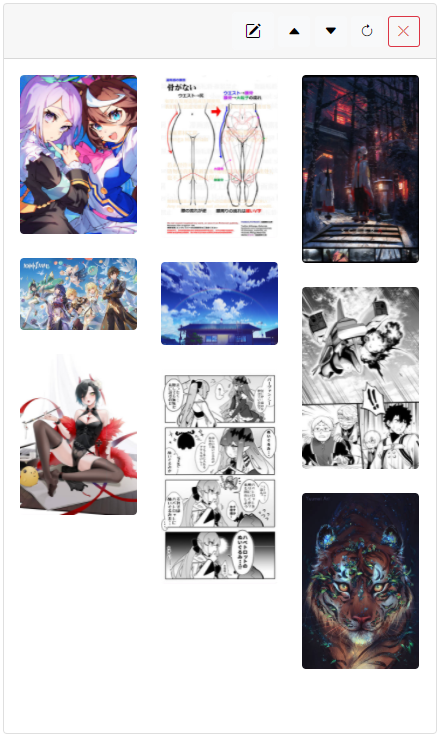
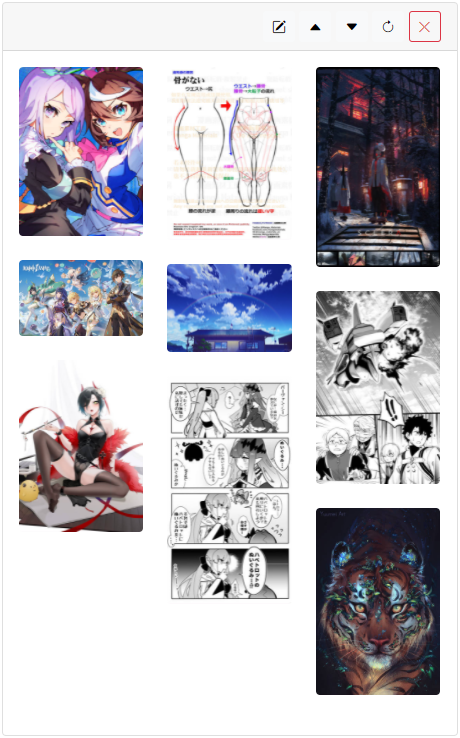
updated examples

diff --git a/js/popup.js b/js/popup.js
@@ -48,7 +48,7 @@ $(function() {
     var editBtn = ''
     if (window.location.toString().startsWith(chrome.runtime.getURL("html/main.html"))) {
       editBtn = `
-      <button id="${id}-edit" type="button" class="btn btn-light">
+      <button id="${id}-edit" type="button" class="btn btn-sm btn-light">
         <i class="bi bi-pencil-square"></i>
       </button>
       `

diff --git a/README.md b/README.md
@@ -106,9 +106,10 @@ We are using Bootstrap 5 css and icons. you can insert html with Bootstrap 5 css
 - Bootstrap icons: https://icons.getbootstrap.com/
 
 ### How to add an API Card
-1. Click the extension icon, and then click the _blue_ edit button on the popup.
-2. Input the API url and input your prefered HTML code for displaying the results of the API fetch.
-3. Click the _blue_ + button.
+1. Click the extension icon
+2. Click the edit button on the top-left corner of the popup.
+3. Input the API url and input your prefered HTML code for displaying the results of the API fetch.
+4. Click the _blue_ + button.
 
 ### Use {}
 - You can use `{}` to access the response data in the html code.
@@ -216,12 +217,31 @@ We are using Bootstrap 5 css and icons. you can insert html with Bootstrap 5 css
 
 5. News API
    - url: https://saurav.tech/NewsAPI/top-headlines/category/technology/us.json
+   - response:
+   ```json
+   {
+     "articles": [
+       {
+         "author": ...,
+         "title": ...,
+         "url": ...,
+         "urlToImage": ...,
+         ...
+       },
+       ...
+     ]
+   }
+   ```
    - html:
    ```html
-   <p>{articles[0].title}</p>
-   <a href="{articles[0].url}" class="d-flex justify-content-center">
-     <img src="{articles[0].urlToImage}" class="rounded" height="150">
-   </a>
+   <div class="d-flex">
+     <a href="{articles[0].url}" class="d-flex justify-content-center">
+       <img src="{articles[0].urlToImage}" class="rounded" height="100">
+     </a>
+     <div class="flex-grow-1 ms-3">
+       <p class="h6">{articles[0].title}</p>
+     </div>
+   </div>
    ```
    <div align="center"><img src="demo/images/news.png"></div>
    </br>
@@ -241,6 +261,8 @@ We are using Bootstrap 5 css and icons. you can insert html with Bootstrap 5 css
    ```html
    {html}
    ```
+   <div align="center"><img src="demo/images/youtube.png"></div>
+   </br>
 
 
 <p align="right">(<a href="#top">back to top</a>)</p>
